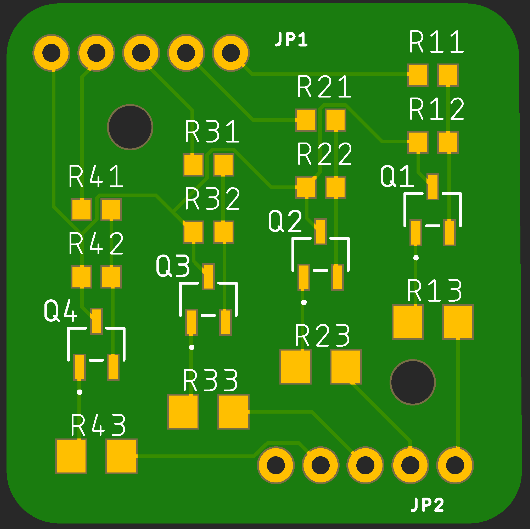
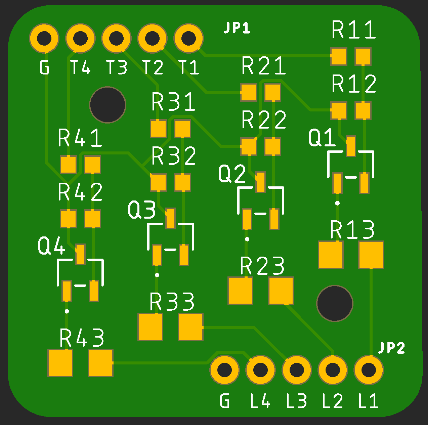
dimensions & labels

diff --git a/README.md b/README.md
@@ -16,12 +16,12 @@ I will provide all of the files necessary to have these boards fabricated and po
 
 ## ToDo List
 
-* Label the solder holes.
-* Document the hole size.
+* ~~Label the solder holes~~.
+* ~~Document hole placement~~.
 
 ## Mechanical Info
 
-The board is currently just under 30mm square with (2) M2 mounting holes. Dimensions to be provided later. The header are 5-conductor, 0.1"/2.54mm pitch. Hole size = TODO.
+The board is currently 29mm square with (2) M2 mounting holes. The header are 5-conductor, 0.1"/2.54mm pitch. Hole size = 0.076"/1.93mm. The dimensional drawing is [here](assets/dimensions.png).
 
 The board's size could be reduced by moving circuitry for two channels to the other side of the board and moving the connectors so that they're symmetrical.
 
